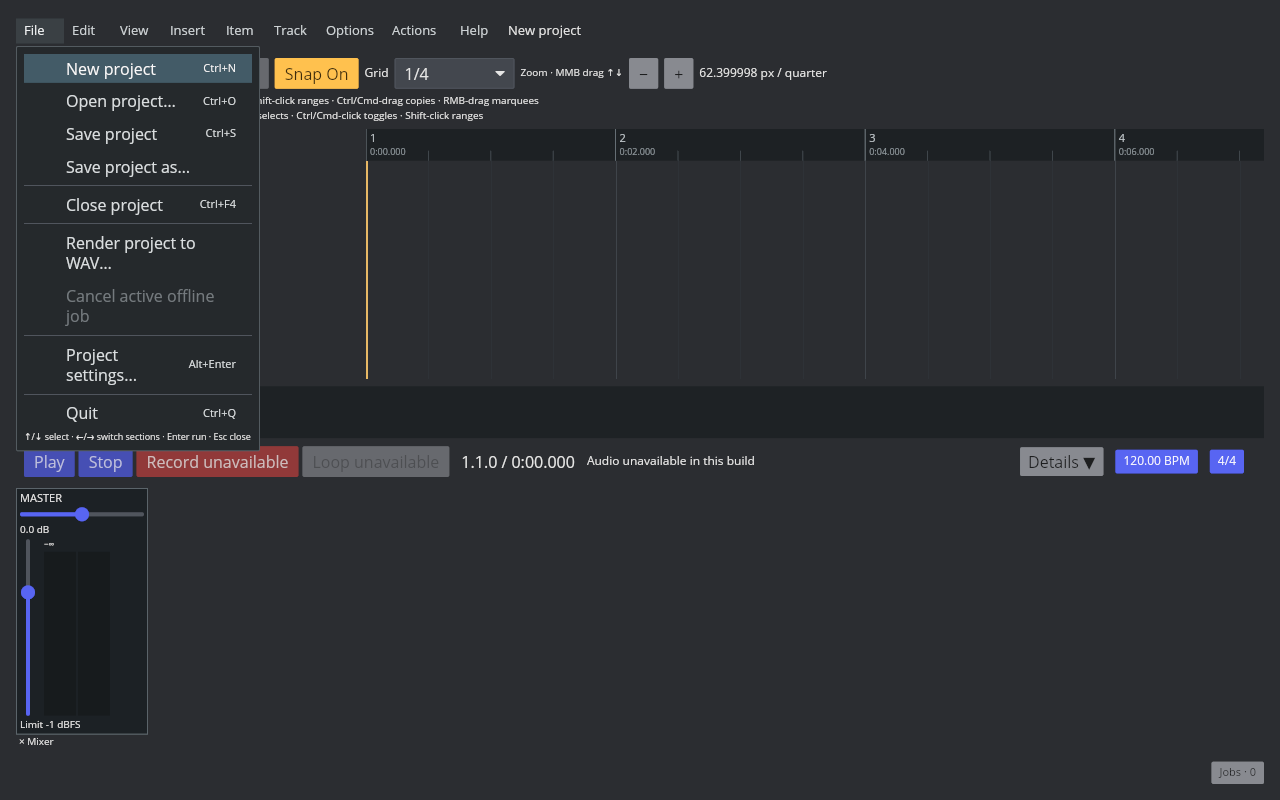
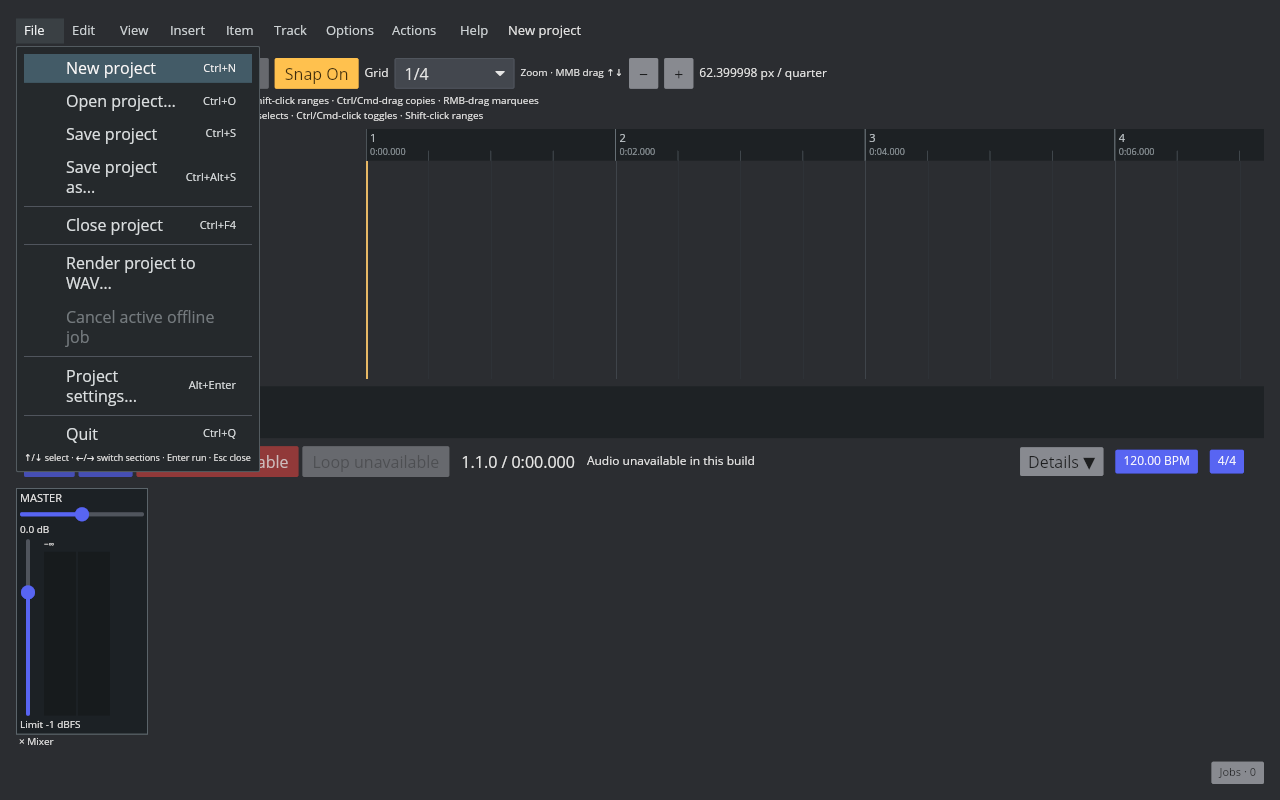
feat(menu): add the native Save project as shortcut

Changed region(s): [[0.0, 0.2188, 0.2188, 0.5938], [0.0938, 0.1875, 0.1562, 0.2188], [0.0625, 0.0625, 0.125, 0.0938]]

diff --git a/crates/aaadaw/src/app/tests.rs b/crates/aaadaw/src/app/tests.rs
@@ -2763,6 +2763,43 @@ fn close_project_matches_native_menu_and_preserves_unsaved_work_until_confirmed(
 }
 
 #[test]
+fn save_project_as_matches_native_ctrl_alt_s_and_opens_the_save_picker() {
+    let window_id = iced::window::Id::unique();
+    let mut app = App {
+        main_window_id: Some(window_id),
+        ..App::default()
+    };
+    let save_as = commands::for_menu(&app, MainMenu::File)
+        .into_iter()
+        .find(|entry| entry.id == CommandId::SaveProjectAs)
+        .expect("File menu should expose Save project as");
+    assert_eq!(save_as.label, "Save project as...");
+    let binding = commands::shortcut_entries(&app)
+        .into_iter()
+        .find(|entry| entry.id == "file.save-project-as")
+        .expect("Save project as should have a configurable shortcut entry");
+    assert_eq!(binding.default_binding, "Ctrl+Alt+S");
+    let bindings = app
+        .shortcut_bindings
+        .read()
+        .unwrap_or_else(std::sync::PoisonError::into_inner);
+    assert_eq!(
+        commands::from_shortcut(
+            &Key::Character("s"),
+            Modifiers::CTRL.union(Modifiers::ALT),
+            &bindings,
+            &app.action_macros,
+        ),
+        Some(CommandId::SaveProjectAs)
+    );
+    drop(bindings);
+
+    let _ = app.update(Message::ExecuteCommand(CommandId::SaveProjectAs));
+    assert!(app.path_picker_busy);
+    assert_eq!(app.active_menu, None);
+}
+
+#[test]
 fn quit_matches_native_file_menu_and_uses_dirty_close_confirmation() {
     let window_id = iced::window::Id::unique();
     let mut app = App {
@@ -4438,7 +4475,7 @@ fn settings_categories_preserve_edits_and_actions_restore_individual_defaults() 
             .find(|entry| entry.id == "file.save-project-as")
             .unwrap()
             .binding,
-        ""
+        commands::format_shortcut_label("Ctrl+Alt+S")
     );
     assert_eq!(
         commands::shortcut_entries(&app)
@@ -4454,7 +4491,7 @@ fn settings_categories_preserve_edits_and_actions_restore_individual_defaults() 
             .find(|entry| entry.id == "file.save-project-as")
             .unwrap()
             .binding,
-        ""
+        commands::format_shortcut_label("Ctrl+Alt+S")
     );
 }
 

diff --git a/crates/aaadaw/src/app/commands.rs b/crates/aaadaw/src/app/commands.rs
@@ -235,6 +235,10 @@ const NEW_PROJECT_SHORTCUT: &[Shortcut] = &[Shortcut::character('n', Modifiers::
 const QUIT_SHORTCUT: &[Shortcut] = &[Shortcut::character('q', Modifiers::CTRL)];
 const CLOSE_PROJECT_SHORTCUT: &[Shortcut] = &[Shortcut::named(Named::F4, Modifiers::CTRL)];
 const SAVE_SHORTCUT: &[Shortcut] = &[Shortcut::character('s', Modifiers::COMMAND)];
+const SAVE_PROJECT_AS_SHORTCUT: &[Shortcut] = &[Shortcut::character(
+    's',
+    Modifiers::CTRL.union(Modifiers::ALT),
+)];
 const PREFERENCES_SHORTCUT: &[Shortcut] = &[Shortcut::character('p', Modifiers::COMMAND)];
 const UNDO_SHORTCUT: &[Shortcut] = &[Shortcut::character('z', Modifiers::COMMAND)];
 const PASTE_ITEMS_SHORTCUT: &[Shortcut] = &[Shortcut::character('v', Modifiers::CTRL)];
@@ -332,9 +336,16 @@ const COMMANDS: &[CommandDefinition] = &[
         kind: CommandKind::SaveProjectAs,
         menu: Some(MainMenu::File),
         category: "File",
-        label: "Save project as…",
-        aliases: &["save project as", "save project as…", "save as", "save as…"],
-        shortcuts: &[],
+        label: "Save project as...",
+        aliases: &[
+            "save project as",
+            "save project as...",
+            "save project as…",
+            "save as",
+            "save as...",
+            "save as…",
+        ],
+        shortcuts: SAVE_PROJECT_AS_SHORTCUT,
         destructive: false,
         separator_before: false,
     },

diff --git a/docs/verification/reaper-parity/menu-navigation.md b/docs/verification/reaper-parity/menu-navigation.md
@@ -8,9 +8,13 @@
 
 主窗口按原厂已验证的 `Alt+F/E/V/I/O/A/H` 打开 File/Edit/View/Insert/Options/Actions/Help 菜单；快捷键只在 Iced 将按键标为未消费时触发。同一访问键会重新打开对应菜单，不会意外将它关掉。F10 不再打开菜单。主菜单栏和左右导航现有原厂九项顺序。REAPER 原厂 File 菜单的 `Close project` 使用 Ctrl+F4，Main Action List 40860 名称为 `Close current project tab`；AAADAW File 菜单现提供 `Close project`，Ctrl+F4 通过未保存工程 Save / Don't Save / Cancel 保护后关闭当前工程并回到空工程。原厂 File 菜单参考与 AAADAW 菜单、确认框截图/哈希见[Close project fixture](fixtures/menu-close-project-aaadaw.tsv)。AAADAW 目前只有单工程模型，不实现 REAPER 的多标签工程和 Close all projects。
 
+REAPER Main Action 40022 `File: Save project as...` 默认 Ctrl+Alt+S。AAADAW File 菜单名称、快捷键和默认绑定现已对齐；该命令复用已有保存文件选择器。真实 AAADAW 菜单截图和 SHA-256 见[Save project as fixture](fixtures/menu-save-project-as-aaadaw.tsv)，定向回归确认默认组合映射为 SaveProjectAs，执行后进入保存选择器状态。Xvfb 中没有可见的原生文件选择器窗口供截图比对。
+
 REAPER 原厂 File 末项为 `Quit`，Action List 名称 `File: Quit REAPER`，快捷键 Ctrl+Q（Action 40004）。AAADAW 现将 Quit 放在 File 菜单末项；ArrowUp 从首项循环到 Quit，Ctrl+Q 发起主窗口关闭并沿用 Save / Don't Save / Cancel 未保存工程保护。AAADAW 边界和实际退出确认截图、步骤、状态及哈希见[菜单 Quit fixture](fixtures/menu-keyboard-boundary-aaadaw.tsv)。File 其余原厂命令尚未齐全，因此菜单整体顺序仍不一致。Options 包含 Preferences...（Ctrl+P）和“Loop points linked to time selection”开关；后者显示当前状态勾选，执行后通过现有全局偏好保存路径持久化，不修改工程修订。Help 有“Action list and shortcuts...”入口和单实例 About AAADAW 窗口，`Ctrl+F1` 打开 About。
 
 回归 `quit_matches_native_file_menu_and_uses_dirty_close_confirmation` 验证 Quit 为 File 菜单末项、短标签为 Quit、分隔线及默认 Ctrl+Q，并覆盖关闭确认取消和放弃继续。`options_menu_exposes_preferences_and_updates_the_loop_link_checkmark` 验证菜单命令、快捷键绑定可用、勾选态切换、全局偏好排队保存和工程 revision 不变；`help_menu_opens_the_action_list_and_a_single_about_window` 验证帮助入口、About 复用同一窗口、关闭清理和 Ctrl+F1；菜单键盘回归覆盖 Alt+O/Alt+H、九项左右顺序和启用命令首尾循环。nightly+Cranelift 定向 nextest 本次 Quit 测试 1/1 通过。
+
+`save_project_as_matches_native_ctrl_alt_s_and_opens_the_save_picker` 验证原厂 Ctrl+Alt+S 解析为 SaveProjectAs，并在应用更新后进入既有保存选择器状态、关闭主菜单；本轮 AAADAW 全量 nightly+Cranelift 测试 555/555 通过。
 
 `close_project_matches_native_menu_and_preserves_unsaved_work_until_confirmed` 覆盖 File 菜单标签/快捷键、Action List 名称、修改后取消，以及 Don't Save 后关闭工程并清空当前轨道、路径和修订号。`successful_save_before_close_project_clears_the_open_project` 覆盖 Save 成功后继续关闭。实窗 Ctrl+F4 确认对未保存工程弹出保护框，步骤和哈希见上方 fixture。
 

diff --git a/docs/reaper-parity/progress.md b/docs/reaper-parity/progress.md
@@ -919,3 +919,9 @@ Nightly + Cranelift 定向回归 `quit_matches_native_file_menu_and_uses_dirty_c
 REAPER File 菜单的 `Close project` 对应 Main Action 40860 `Close current project tab` / Ctrl+F4。AAADAW 现在注册该可配置动作；对已修改工程使用统一 Save / Don't Save / Cancel 转换，确认关闭后清空当前工程、路径、选择及修订状态并创建空工程工作区。实窗菜单顺序、Ctrl+F4 未保存确认截图和 SHA-256 见 [Close project fixture](../verification/reaper-parity/fixtures/menu-close-project-aaadaw.tsv)。
 
 Nightly + Cranelift 定向回归 `close_project_matches_native_menu_and_preserves_unsaved_work_until_confirmed` 与 `successful_save_before_close_project_clears_the_open_project` 2/2 passed，覆盖菜单、Ctrl+F4 默认绑定、Action List 原厂动作名、取消保留、Save 后关闭及 Don't Save 关闭。此行为只支持单工程；REAPER 多标签及 Close all projects 仍未实现，`SHELL-MENU-KEYBOARD-001` 保持 `in_progress`。
+
+### 2026-10-14 File 菜单 Save project as Ctrl+Alt+S
+
+REAPER Main Action 40022 的原厂名称为 `File: Save project as...`，默认 Ctrl+Alt+S。AAADAW 将 File 菜单标签的省略号和组合键补齐；快捷键使用现有 SaveProjectAs/原生文件选择器路径。实窗 File 菜单截图显示保存、关闭和退出命令及各自快捷键，SHA-256 见 [Save project as fixture](../verification/reaper-parity/fixtures/menu-save-project-as-aaadaw.tsv)。
+
+Nightly + Cranelift 定向回归 `save_project_as_matches_native_ctrl_alt_s_and_opens_the_save_picker` 1/1 passed，验证 Ctrl+Alt+S 解码为 SaveProjectAs、打开保存选择器状态并关闭菜单。Xvfb 中未捕获到可见的原生文件选择器窗口，故只验证菜单截图和应用内路由，不宣称选择器视觉一致。File 菜单及键盘焦点仍有其它未实现命令，`SHELL-MENU-KEYBOARD-001` 保持 `in_progress`。
